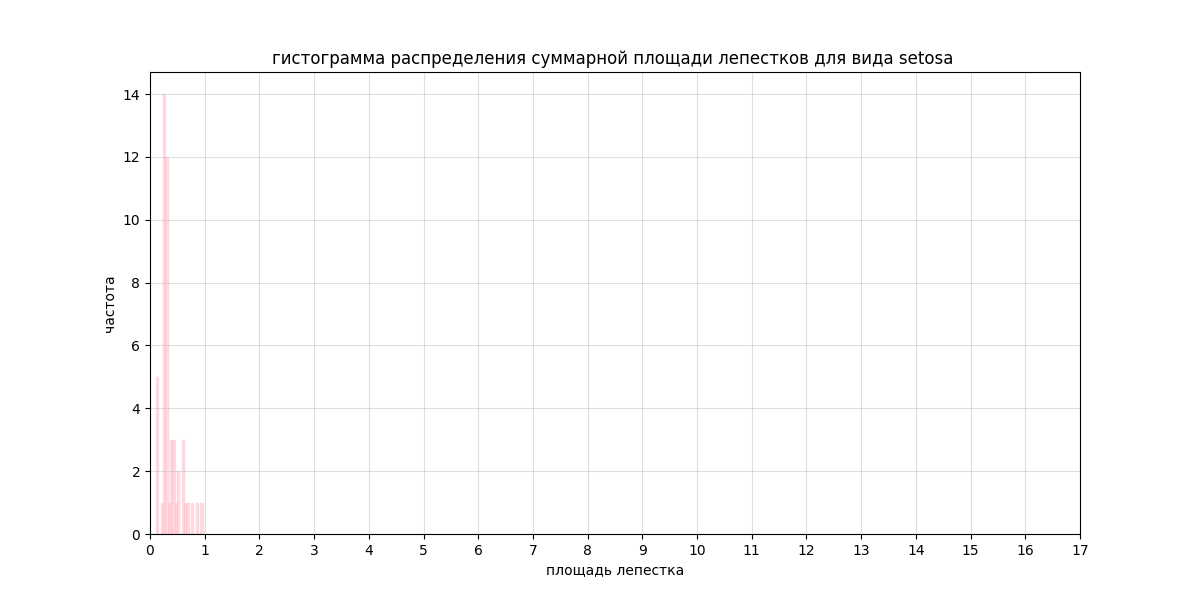
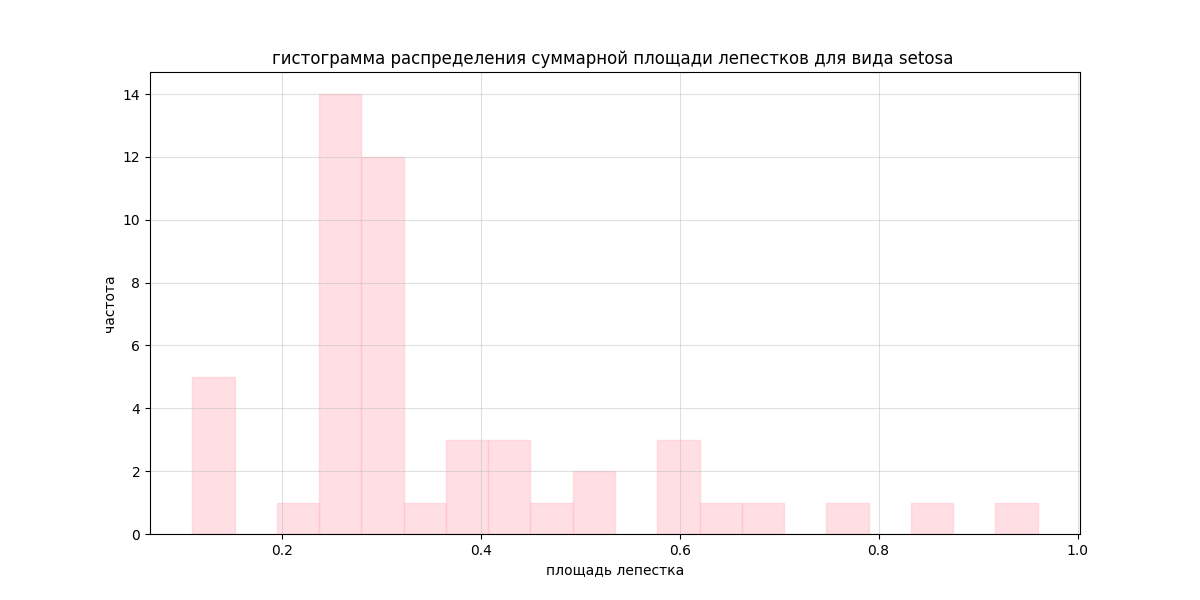
нет лучше пусть без изменений масштаба так удобнее смотреть

Changed region(s): [[0.1233, 0.15, 0.8633, 0.93], [0.8942, 0.9, 0.925, 0.93]]

diff --git a/main.py b/main.py
@@ -113,10 +113,10 @@ def custom_boxplot(data, title, specie):
     """
     plt.boxplot(data)
     for i, d in enumerate(data):
-		plt.scatter(1, d, c="blue", alpha=0.5)
-	plt.xlabel('Данные')
-	plt.ylabel('Значение')
-	plt.title(f'Box-plot для {title} {specie}')
+        plt.scatter(1, d, c="blue", alpha=0.5)
+    plt.xlabel('Данные')
+    plt.ylabel('Значение')
+    plt.title(f'Box-plot для {title} {specie}')
     plt.grid()
     filename = "boxplot_sepal_squares" if 'чашелистика' in title else "boxplot_petal_squares"
     scope = "_whole" if not specie else f"_{specie}"
@@ -135,15 +135,11 @@ def draw_histogram(iris_areas, sepal=True, specie=''):
         f"{gist_title + gist_type} для вида {specie} " if specie else f"{gist_title + gist_type} для всей выборки")
     plt.xlabel('площадь чашелистика' if sepal else 'площадь лепестка')
     plt.ylabel('частота')
-    if (sepal):
-        plt.xticks(range(10, 32, 2))
-    else:
-        plt.xticks(range(0, 18, 1))
-    plt.grid("both", color="silver", alpha=0.5)
+
+    plt.grid(True, color="silver", alpha=0.5)
     filename = "sepal_squares" if sepal else "petal_squares"
     scope = "_whole" if not specie else f"_{specie}"
     plt.savefig(filename + scope + '.png')
-    plt.legend()
     plt.close()
 
 
